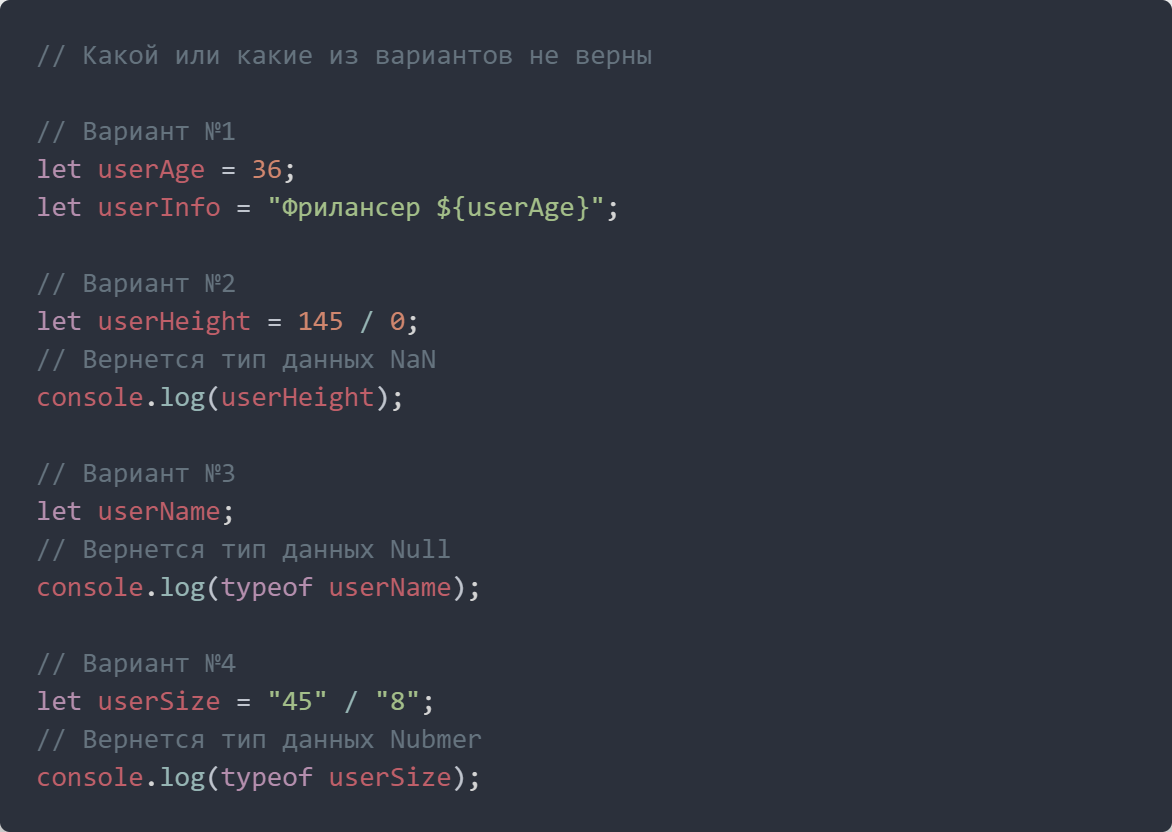
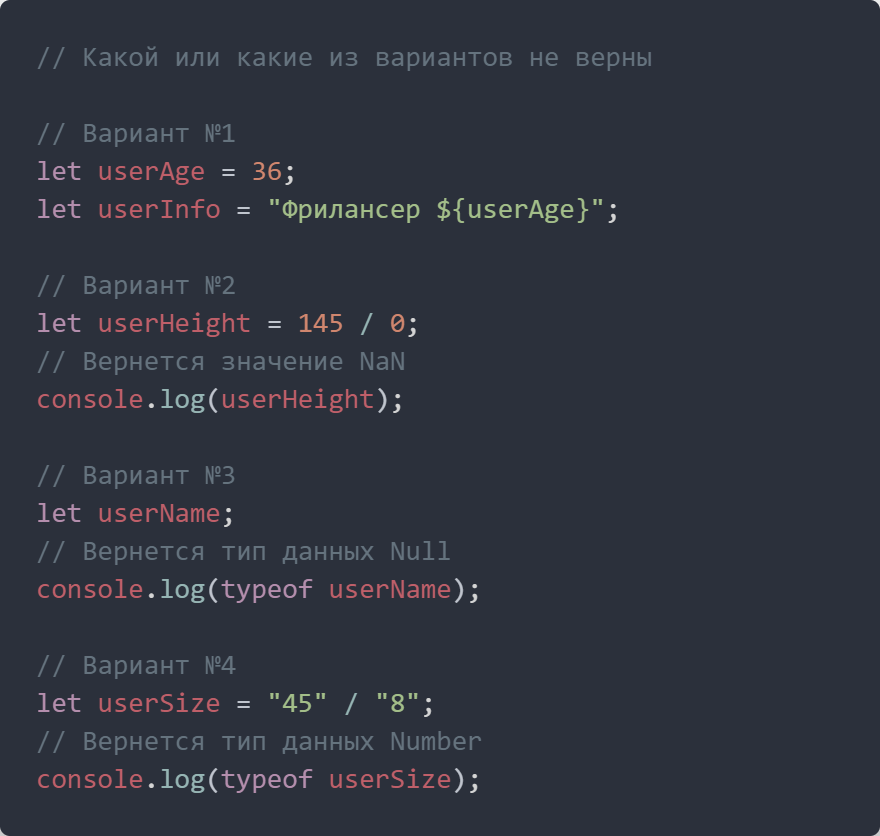
Lesson_22

diff --git a/Lesson_22/index.html b/Lesson_22/index.html
@@ -32,7 +32,7 @@
 						<img src="img/02.png" alt="" class="item-lessons__image">
 					</div>
 					<ol class="item-lessons__list">
-						<li class="item-lessons__item"><span class='error'>Вызовет ошибку.</span> После первого выражения не хватает запятой, или перенести второе выражение на новую строку</li>
+						<li class="item-lessons__item"><span class='error'>Вызовет ошибку.</span> После первого выражения не хватает точки с запятой, или перенести второе выражение на новую строку</li>
 						<li class="item-lessons__item"><span class='better'>Ошибку не вызовет.</span> Но второе слово стоит записать с заглавной <span>myAge</span></li>
 						<li class="item-lessons__item"><span class='better'>Ошибку не вызовет.</span> Но в данном случае константе присваивается значение, которое вычисляется в процессе выполнения программы, поэтому ее стоит записать так - <span>blockSize</span></li>
 						<li class="item-lessons__item"><span class='good'>Все ок.</span></li>

diff --git a/Lesson_22/js/script.js b/Lesson_22/js/script.js
@@ -79,7 +79,7 @@ let userInfo = "Фрилансер ${userAge}";
 
 Вариант №2
 let userHeight = 145 / 0;
-Вернется тип данных NaN
+Вернется значение NaN
 console.log(userHeight);
 
 Вариант №3
@@ -89,6 +89,6 @@ console.log(typeof userName);
 
 Вариант №4
 let userSize = "45" / "8";
-Вернется тип данных Nubmer
+Вернется тип данных Number
 console.log(typeof userSize);
  */
